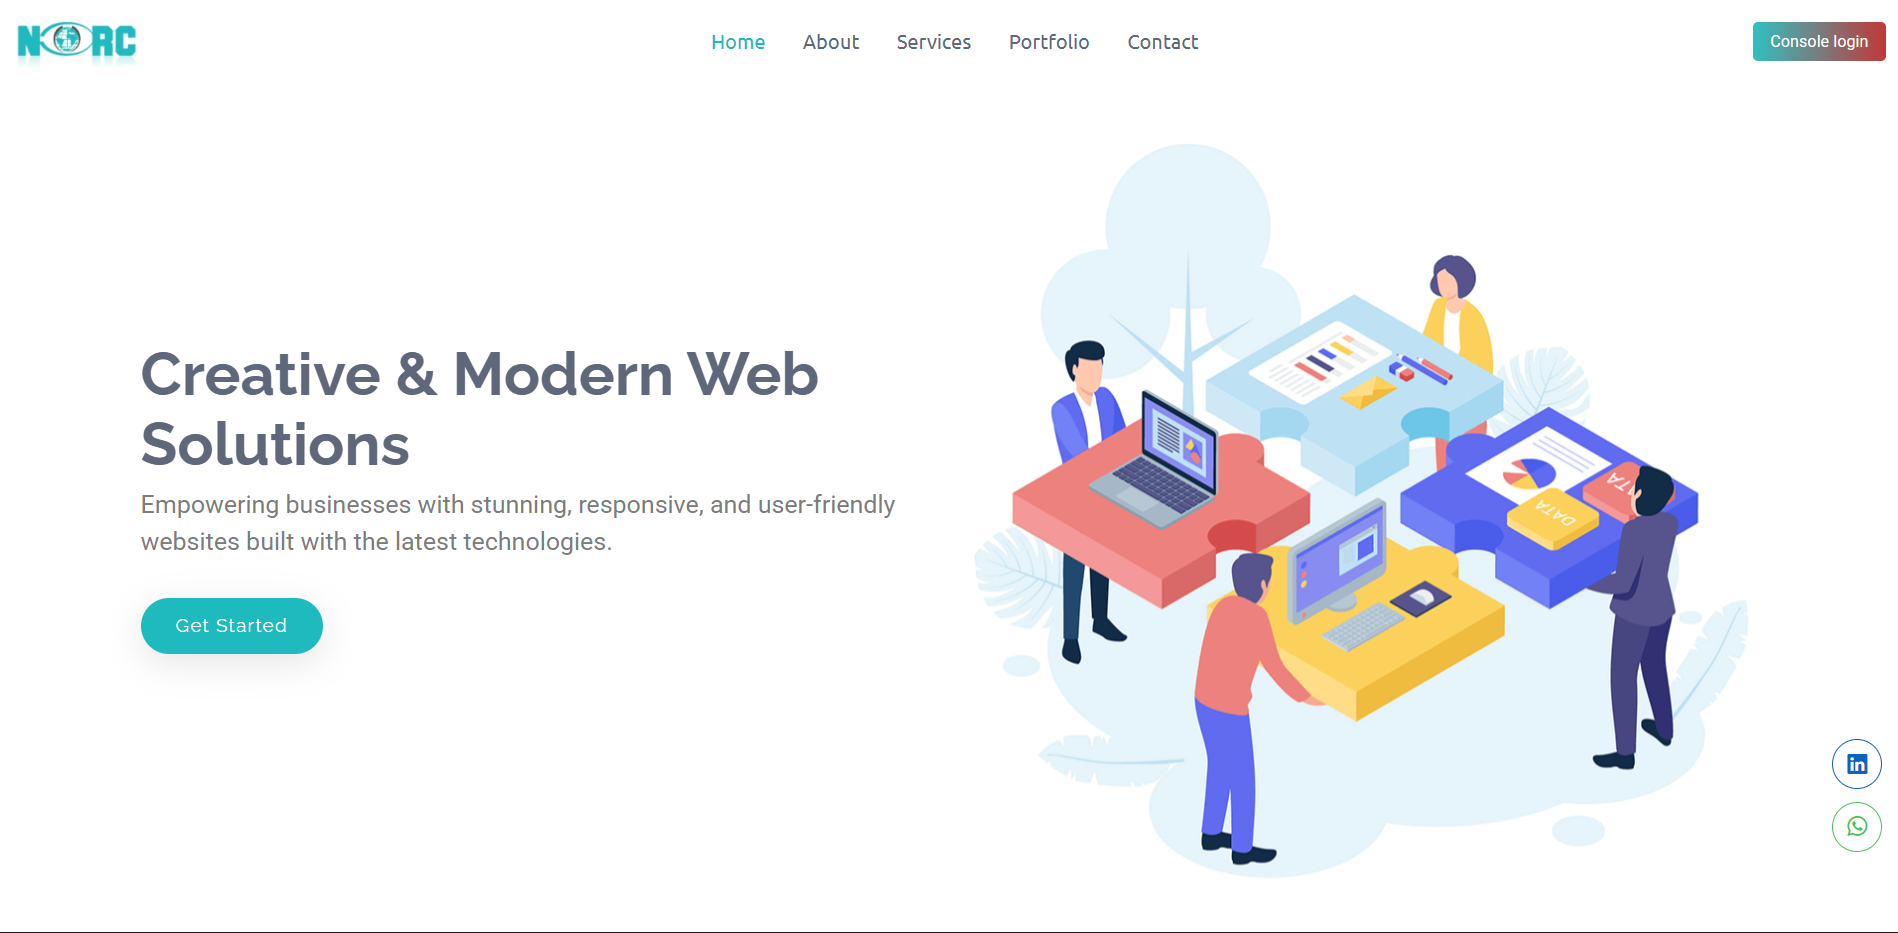
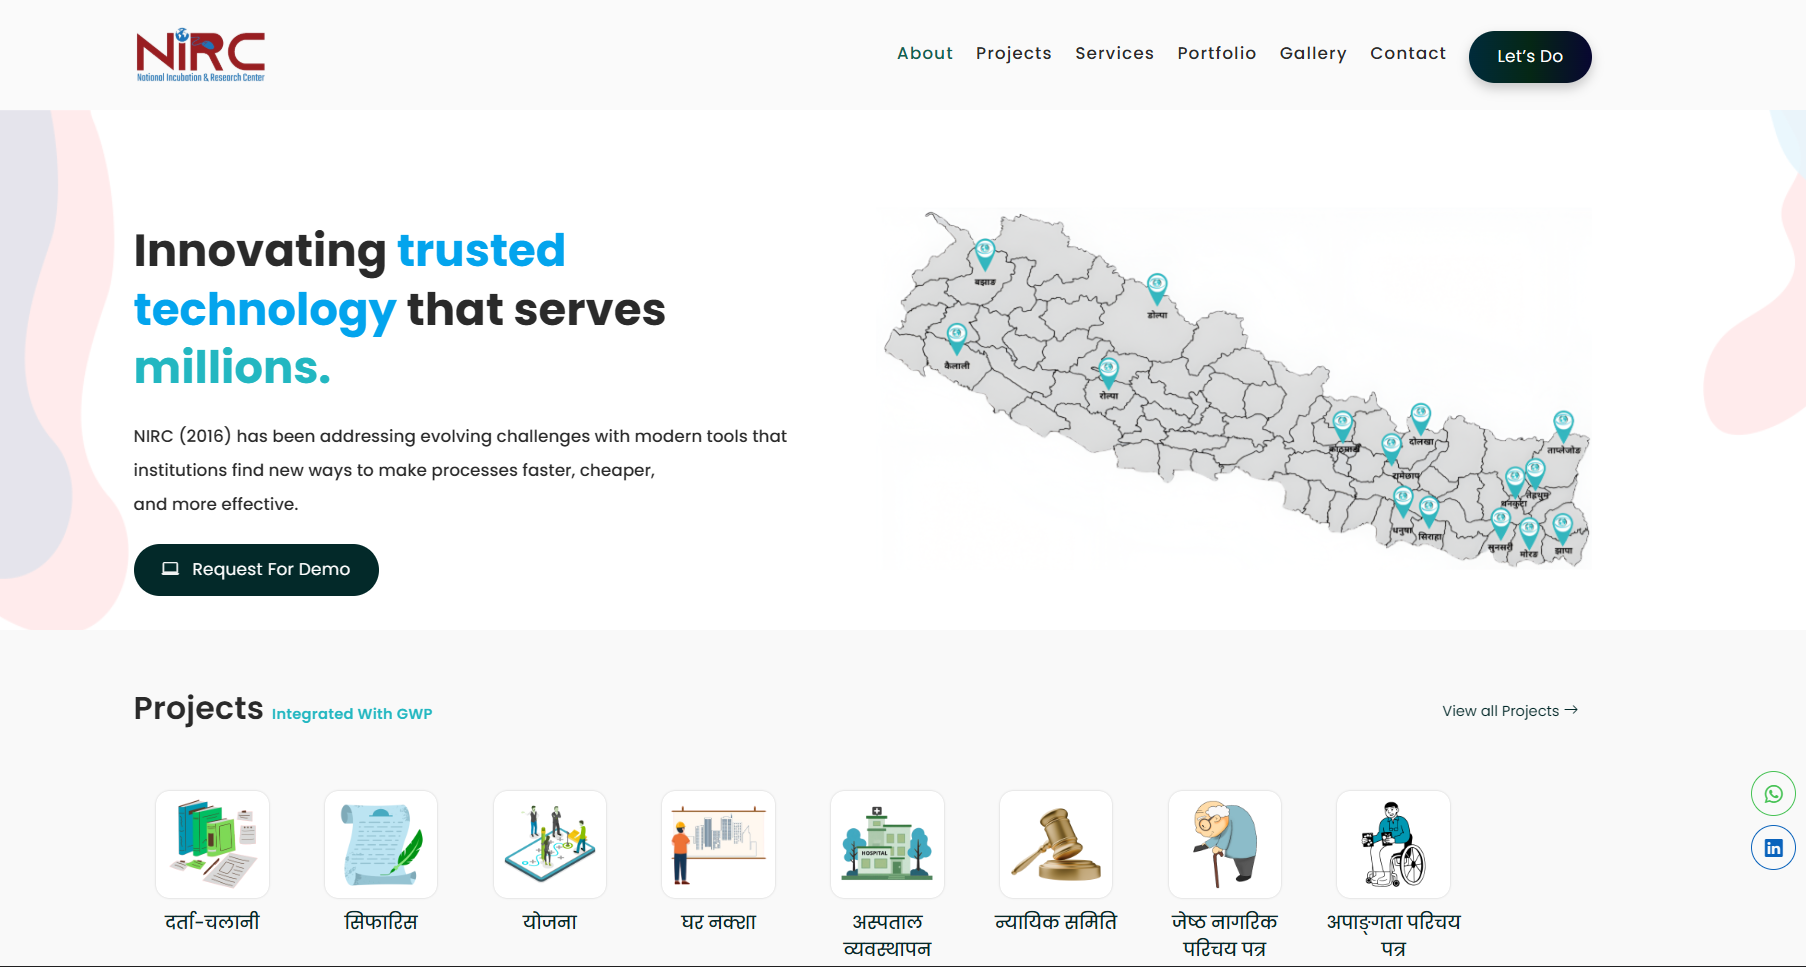
update the data

diff --git a/src/data/data.jsx b/src/data/data.jsx
@@ -163,8 +163,7 @@ export const portfolioItems = [
     image: rakmina,
     technology: ["Next.js", "TailWind CSS", "Django rest framework API"],
     github: "",
-
-    link: "https://rakmina.nirc.com.np/",
+    link: "https://rakmina.lt/",
     description:
       "A professional recruitment and migration portal that connects Nepali talent with global career opportunities, offering end-to-end support from job search to visa processing.",
   },
@@ -226,7 +225,7 @@ export const portfolioItems = [
     image: kic,
     technology: ["HTML", "CSS", "JavaScript", "Django"],
     github: "",
-    link: "",
+    link: "https://kiceducation.edu.np/",
     description:
       "KIEC guides students and professionals in achieving global education and migration goals — from university selection to visa support and pre-departure readiness.",
   },